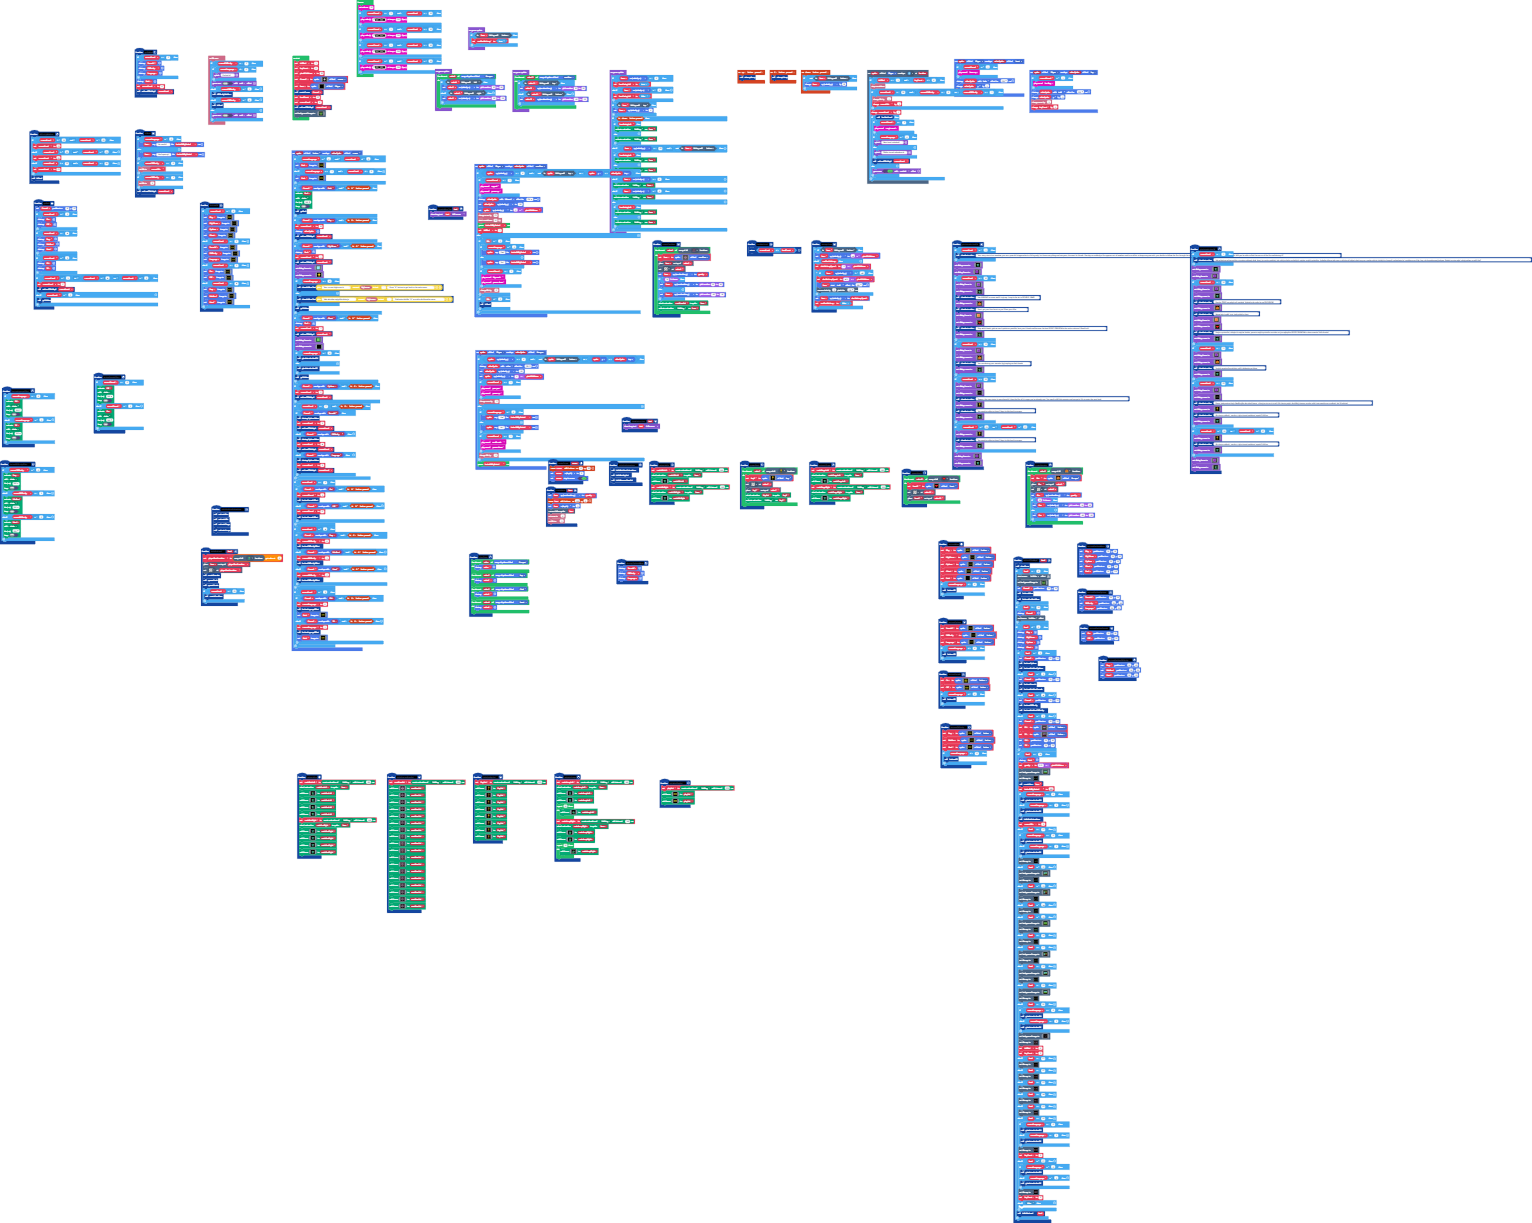
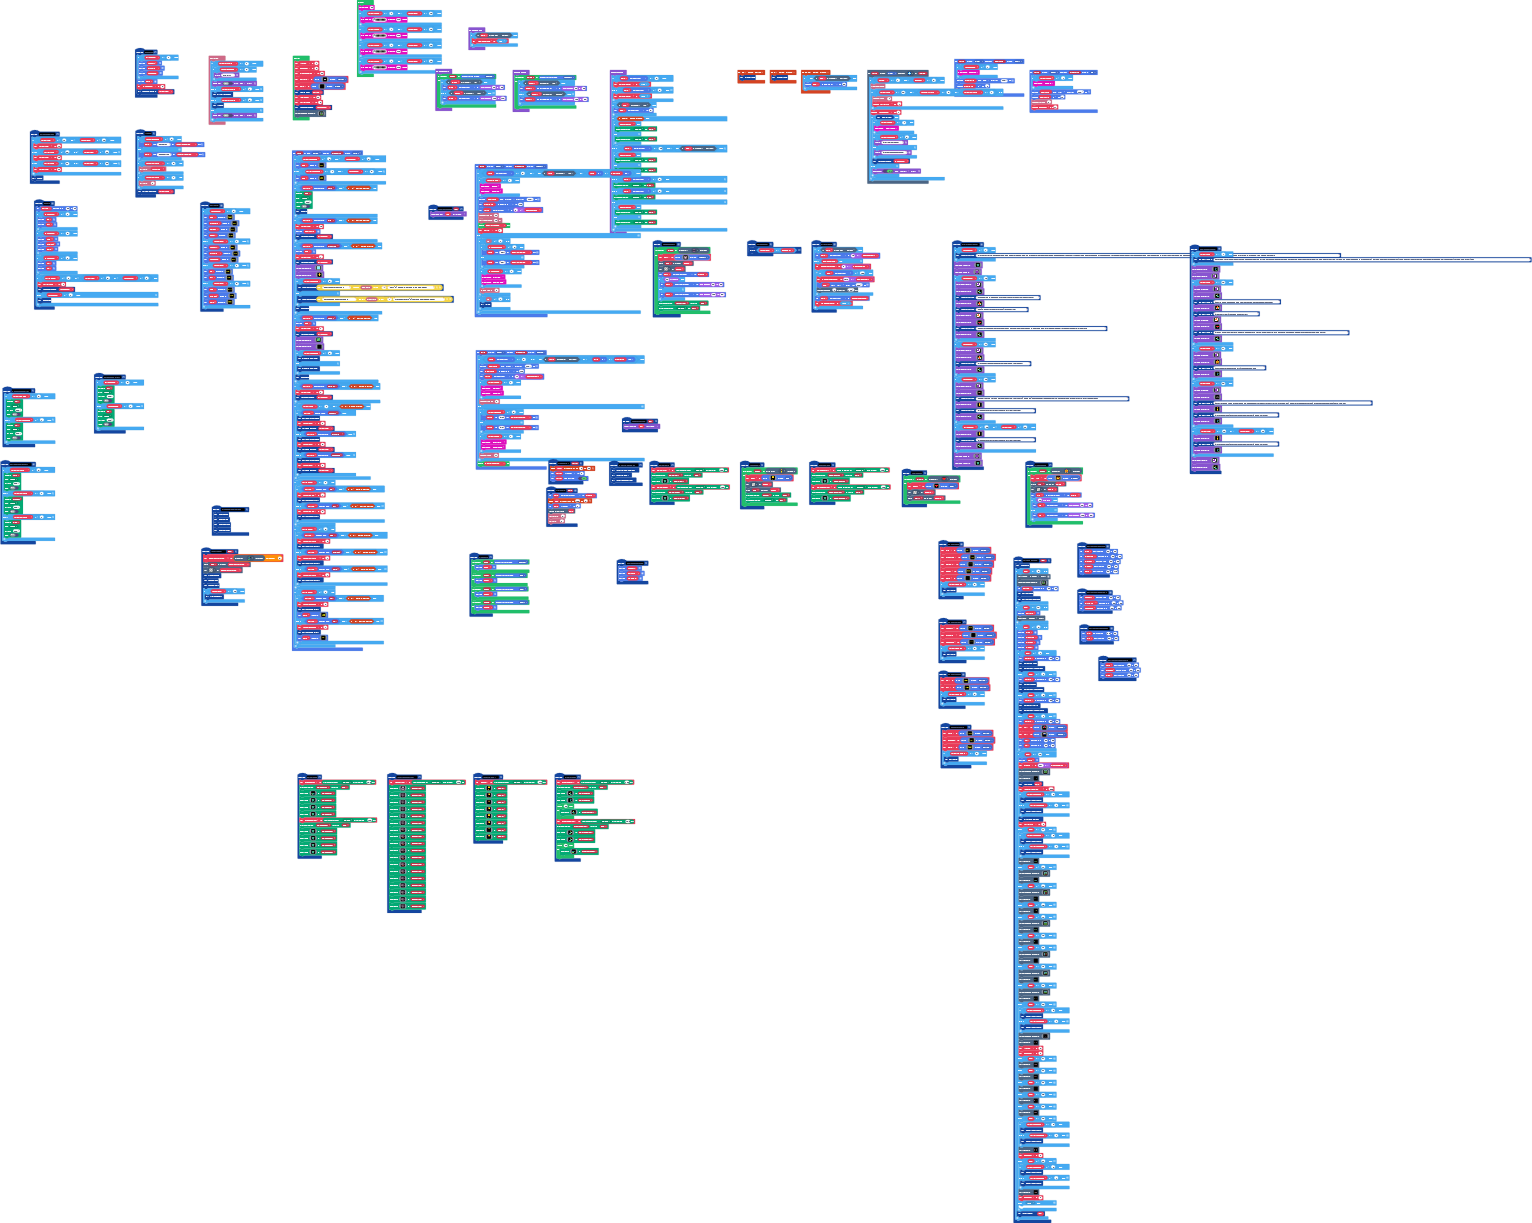
Update pxt.json, main.blocks, main.ts

diff --git a/main.ts b/main.ts
@@ -759,39 +759,6 @@ function giveIntroductionSK () {
         . 5 6 6 . . . . 5 6 6 . . . . . 
         `)
 }
-function initializePlayAni () {
-    playAni = animation.createAnimation(ActionKind.Idle, 225)
-    playAni.addAnimationFrame(img`
-        51515151515151515151515151515
-        1fffffffffffffffffffffffffff1
-        5f5555555555555555555555555f5
-        1f5ffff55f555555fff55f555f5f1
-        5f5f555f5f55555f555f5f555f5f5
-        1f5f555f5f55555f555f55f5f55f1
-        5f5ffff55f55555f555f555f555f5
-        1f5f55555f55555fffff555f555f1
-        5f5f55555f55555f555f555f555f5
-        1f5f55555fffff5f555f555f555f1
-        5f5555555555555555555555555f5
-        1fffffffffffffffffffffffffff1
-        51515151515151515151515151515
-        `)
-    playAni.addAnimationFrame(img`
-        15151515151515151515151515151
-        5fffffffffffffffffffffffffff5
-        1f5555555555555555555555555f1
-        5f5ffff55f555555fff55f555f5f5
-        1f5f555f5f55555f555f5f555f5f1
-        5f5f555f5f55555f555f55f5f55f5
-        1f5ffff55f55555f555f555f555f1
-        5f5f55555f55555fffff555f555f5
-        1f5f55555f55555f555f555f555f1
-        5f5f55555fffff5f555f555f555f5
-        1f5555555555555555555555555f1
-        5fffffffffffffffffffffffffff5
-        15151515151515151515151515151
-        `)
-}
 function setLevelTileMap0 (level: number) {
     clearGame()
     if (level == 0) {
@@ -4246,7 +4213,6 @@ let About: Sprite = null
 let Options: Sprite = null
 let HighScore: Sprite = null
 let Play: Sprite = null
-let playAni: animation.Animation = null
 let mainIdleRight: animation.Animation = null
 let mainIdleLeft: animation.Animation = null
 let currentLife = 0
